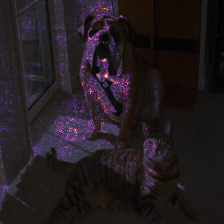
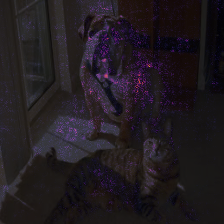
Rewritten FullGrad to be accurate to the implementation in the paper + fixed issue where reusing the fullgrad object for a second explanation would lead to wrong explanations.
Updated images of fullgrad

diff --git a/saliency_methods/gradient.py b/saliency_methods/gradient.py
@@ -229,15 +229,15 @@ class FullGradient(Gradient):
         shape = in_values.shape
 
         grad = torch.tensor(super().explain(in_values, labels), device=self.device)
-        saliency = self._postprocess_gradient(grad, shape) * in_values
-        saliency = saliency.sum(dim=1, keepdim=True)
+        saliency = self._postprocess_gradient(grad * in_values, shape)
 
-        for i in range(len(self.conv_gradients)):
-            interpolated = self._postprocess_gradient(self.conv_gradients[i], shape)
-            interpolated *= self.conv_biases[i].view((1, self.conv_biases[i].shape[0], 1, 1))
-            saliency += interpolated.sum(dim=1, keepdim=True)
+        while len(self.conv_gradients) > 0:
+            grad = self.conv_gradients.pop()
+            bias = self.conv_biases.pop()
+            processed = self._postprocess_gradient(grad * bias.view(1, -1, 1, 1), shape)
+            processed = processed.sum(dim=1, keepdims=True)
+            saliency += processed
 
-        saliency = saliency.tile((1, shape[1], 1, 1))  # Convert to correct number of channels
         return self._postprocess(saliency.detach().cpu().numpy(), **kwargs)
 
 
